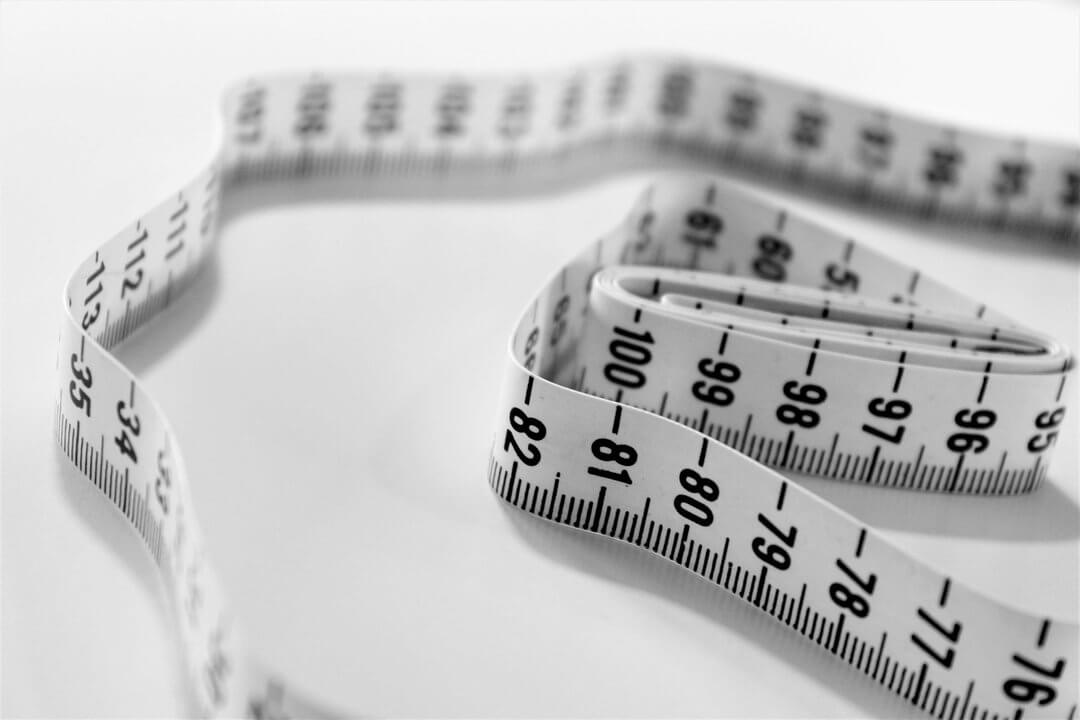
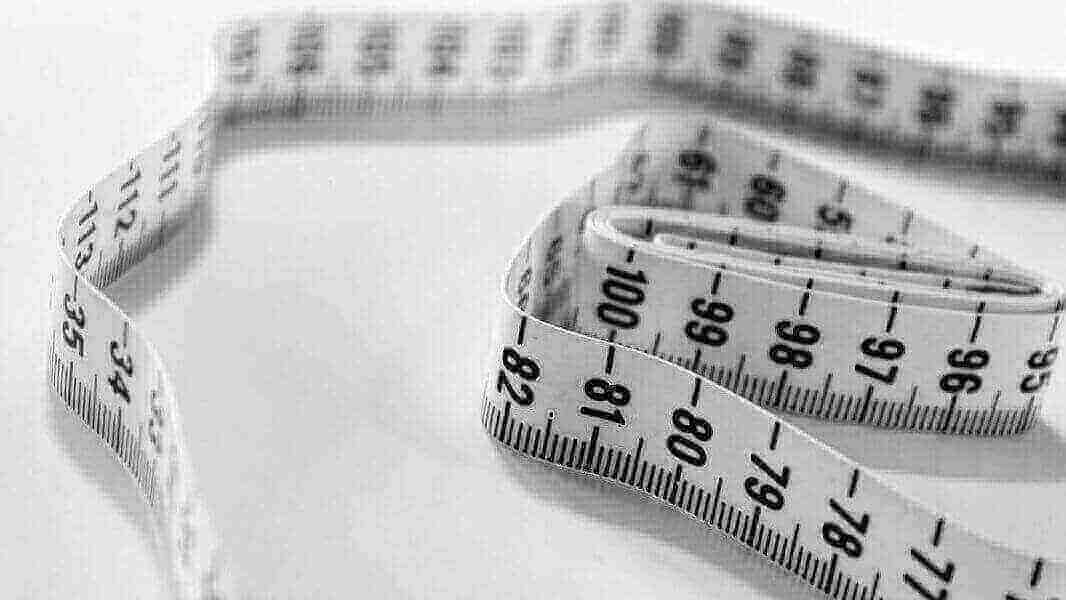
Updated all images, Now all posts are using 16:9 ratio image and maximum minification with tinypng.com This change also made the css rules for post overview in `/blog` not necessary

diff --git a/src/routes/blog/index.svelte b/src/routes/blog/index.svelte
@@ -80,10 +80,9 @@
 				display: flex;
 				justify-content: center;
 				align-items: center;
-				filter: opacity(0.8) grayscale(1);
-				transition: all 100ms ease-in-out;
+				transition: all 250ms ease-in-out;
 				&:hover {
-					filter: opacity(1) grayscale(0);
+					filter: grayscale(1);
 				}
 			}
 			.post-contents {

diff --git a/src/lib/styles/index.scss b/src/lib/styles/index.scss
@@ -51,19 +51,10 @@ header {
 	}
 }
 main.main-content {
+	// Blog index
 	margin: 2rem auto;
 	width: min(960px, 90vw);
 	z-index: 1;
-	// Blog index
-	picture {
-		height: 100%;
-		width: 100%;
-		img {
-			height: 100%;
-			width: 100%;
-			object-fit: cover;
-		}
-	}
 }
 
 article {
